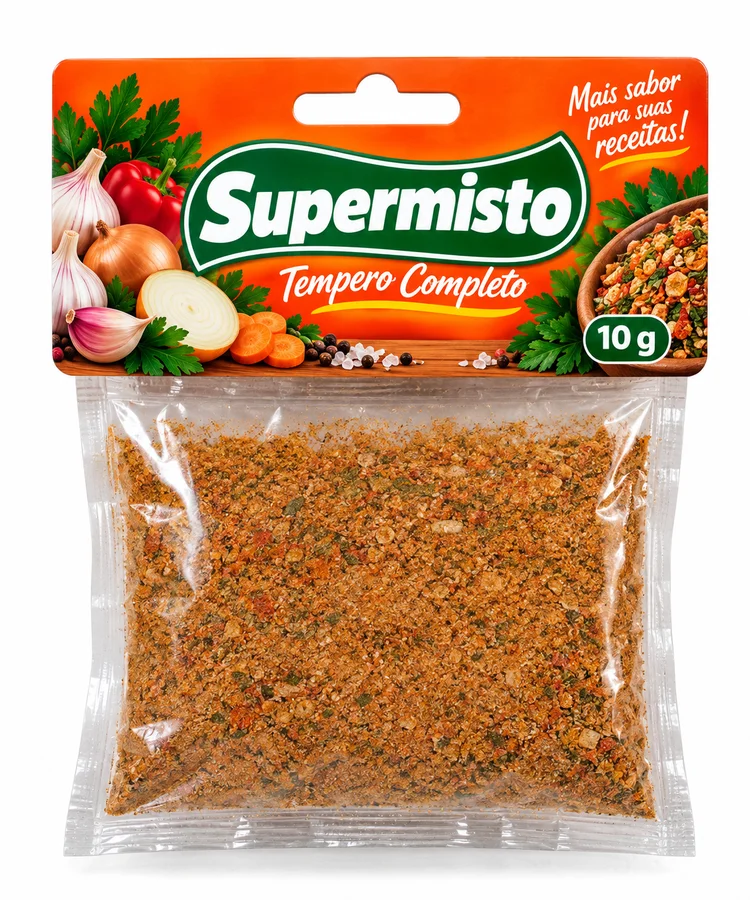
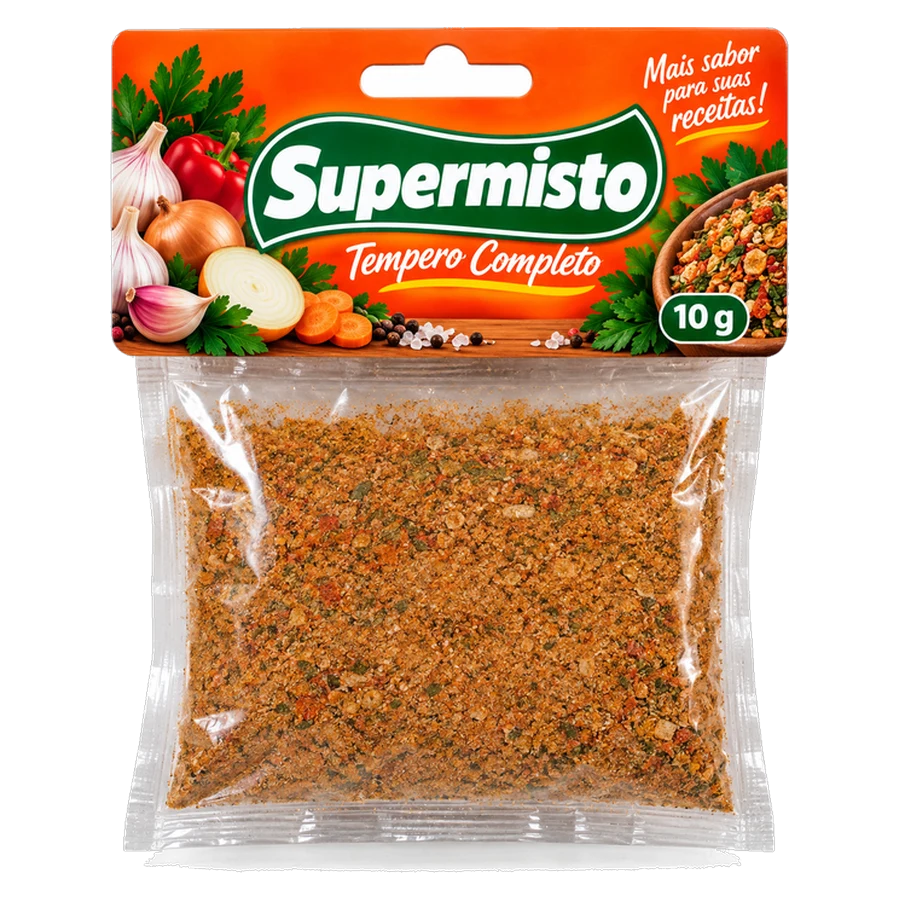
Site Supermisto: fotos dos pacotes no mesmo tamanho
Claude-Session: https://claude.ai/code/session_01UfbvQyVUMZpEq6zNbbPKYT

diff --git a/sites/supermisto/estilo.css b/sites/supermisto/estilo.css
@@ -708,3 +708,11 @@ body{background:#fff}
   .modal-img .foto-prod,.modal-img svg{max-height:100%;height:auto;width:auto;max-width:100%;border-radius:12px;padding:0}
   .modal-nota{display:none}
 }
+/* fotos reais: mesmo tamanho para todos os pacotes */
+.prod-img:has(.foto-prod){background:radial-gradient(circle at 50% 60%,#FFF4E6 0%,#F4F8F5 72%)}
+.prod-img .foto-prod{padding:10px;background:transparent;object-fit:contain;filter:drop-shadow(0 10px 14px rgba(0,0,0,.18))}
+.modal-img:has(.foto-prod){background:radial-gradient(circle at 50% 55%,#FFF4E6 0%,#F4F8F5 75%)}
+.modal-img .foto-prod{background:transparent;filter:drop-shadow(0 14px 18px rgba(0,0,0,.2))}
+@media (max-width:520px){.prod-img .foto-prod{padding:6px}}
+.prod-img .foto-prod{padding:34px 12px 8px}
+@media (max-width:520px){.prod-img .foto-prod{padding:28px 6px 4px}}
